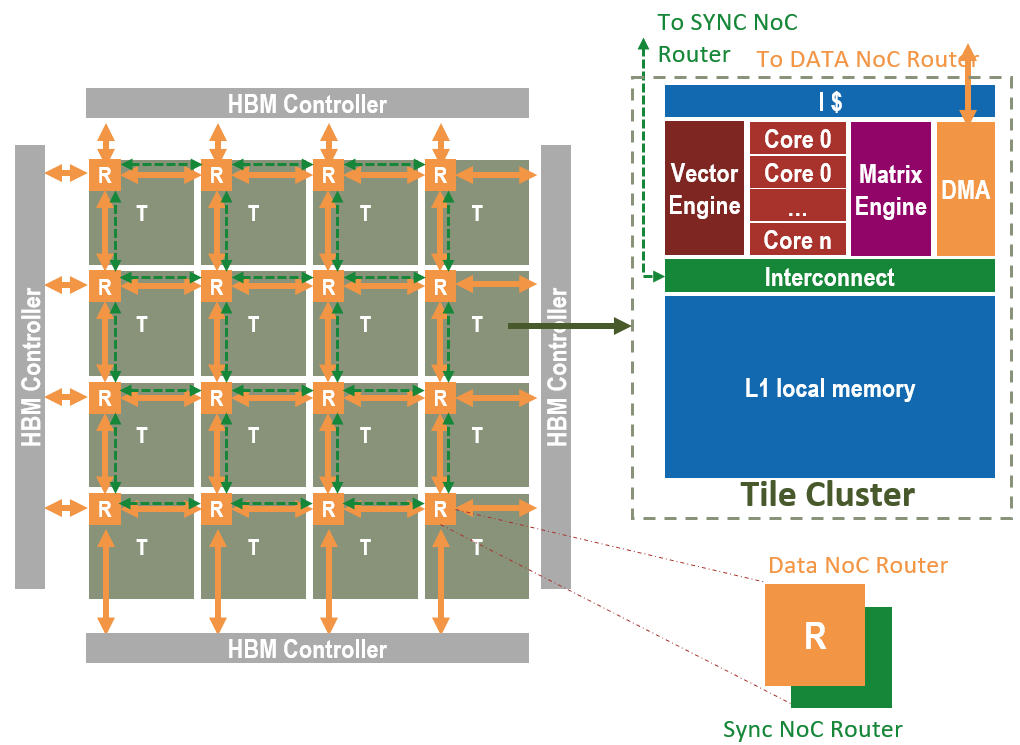
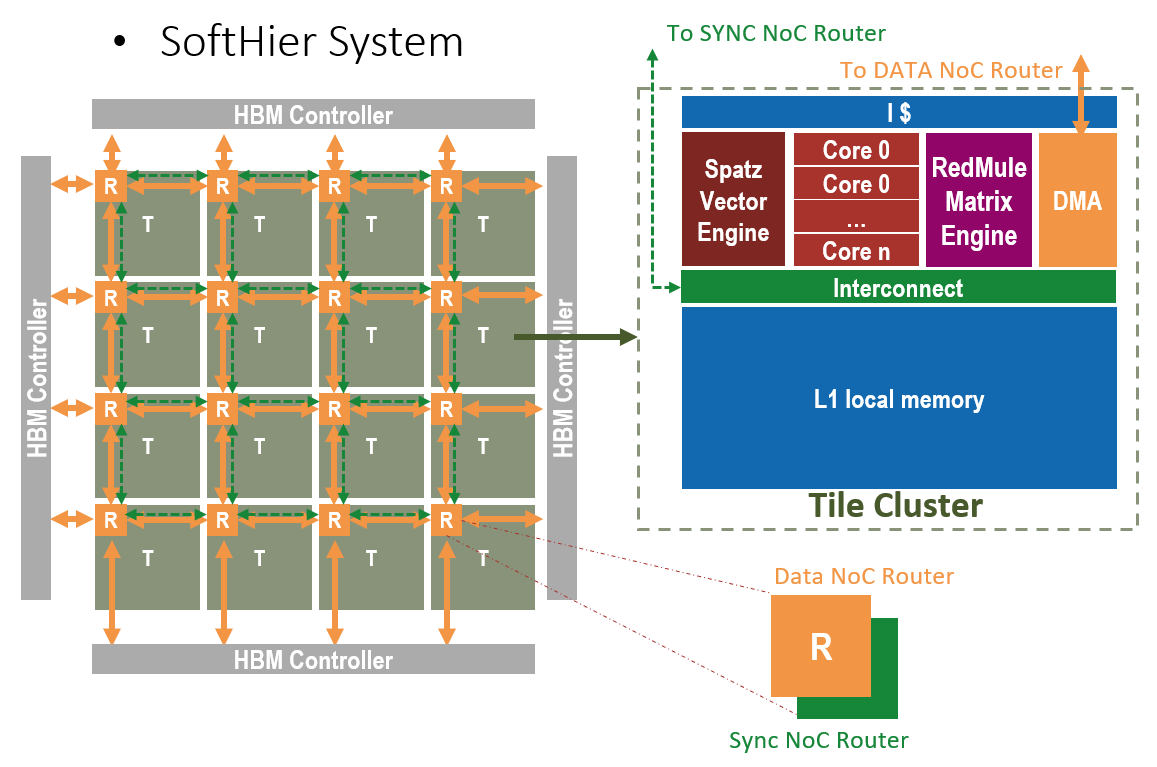
update SoftHier Intro

diff --git a/README.md b/README.md
@@ -38,9 +38,11 @@ These decisions interact: changing the spatial mapping affects data routing, whi
 - Explain clearly that it's not manufactured bc it's mainly for arch exploration -> quickly introduce GVSoC
 - Show what parts of the SoftHier model are parametrizable and what frozen set of parameters are chosen for this exercise -->
 
-The exercises in Part II focus on bare-metal C programming for an academic NPU platform called SoftHier. SoftHier is a tile-based, many-PE architecture simulator built on the GVSoC simulation platform. The fundamental building block of SoftHier is the tile cluster. Each cluster consists of multiple processing elements (PEs), local memory (L1), a DMA engine, and local interconnects. There are three primary types of PEs: scalar cores, spatz vector engines, and RedMule matrix engines. Scalar cores are mainly responsible for control and dataflow management, while compute-intensive tasks are offloaded to vector or matrix engines depending on the workload characteristics. The local L1 memory is implemented as a software-managed scratchpad to improve area efficiency. All PEs within a cluster can directly access this memory via the local interconnect. The DMA engine handles bulk data transfers between the local L1 memory and other parts of the system. At the system level, SoftHier connects clusters using an on-chip 2D mesh network-on-chip (NoC). Off-chip memory, such as HBM, is positioned at the boundaries of the mesh and accessed through dedicated memory controllers.
+The exercises in Part II focus on bare-metal C programming for an academic NPU platform called SoftHier. SoftHier is a tile-based, many-PE architecture simulator built on the GVSoC simulation platform. The fundamental building block of SoftHier is the tile cluster. Each cluster consists of multiple processing elements (PEs), local memory (L1), a DMA engine, and local interconnects. There are three primary types of PEs: scalar cores, spatz vector engines, and RedMule matrix engines. The RedMule matrix engine is a HWPE-style accelerator introduced in Lecture 7b on Neural Processing Units, designed to target reduced-precision matrix multiplication. Scalar cores are mainly responsible for control and dataflow management, while compute-intensive tasks are offloaded to vector or matrix engines depending on the workload characteristics. The local L1 memory is implemented as a software-managed scratchpad to improve area efficiency. All PEs within a cluster can directly access this memory via the local interconnect. The DMA engine handles bulk data transfers between the local L1 memory and other parts of the system. At the system level, SoftHier connects clusters using an on-chip 2D mesh network-on-chip (NoC). Off-chip memory, such as HBM, is positioned at the boundaries of the mesh and accessed through dedicated memory controllers.
 
 <img src="imgs/softhier_architecture.png">
+
+<img src="imgs/redmule.png">
 
 The SoftHier simulator is designed for academic purposes, enabling rapid exploration of architectural design parameters and software dataflow strategies for next-generation AI accelerators. It is fully parameterizable through configuration files, allowing users to tune system-level parameters (such as the number of clusters per row and column, NoC link data width, and HBM channel count and placement) as well as cluster-level parameters (including L1 memory size and bandwidth, RedMule matrix engine compute arrays, and DMA/vector engine configurations). In Part II, we will use a specific architecture configuration and practice bare-metal C programming on the SoftHier platform.
 